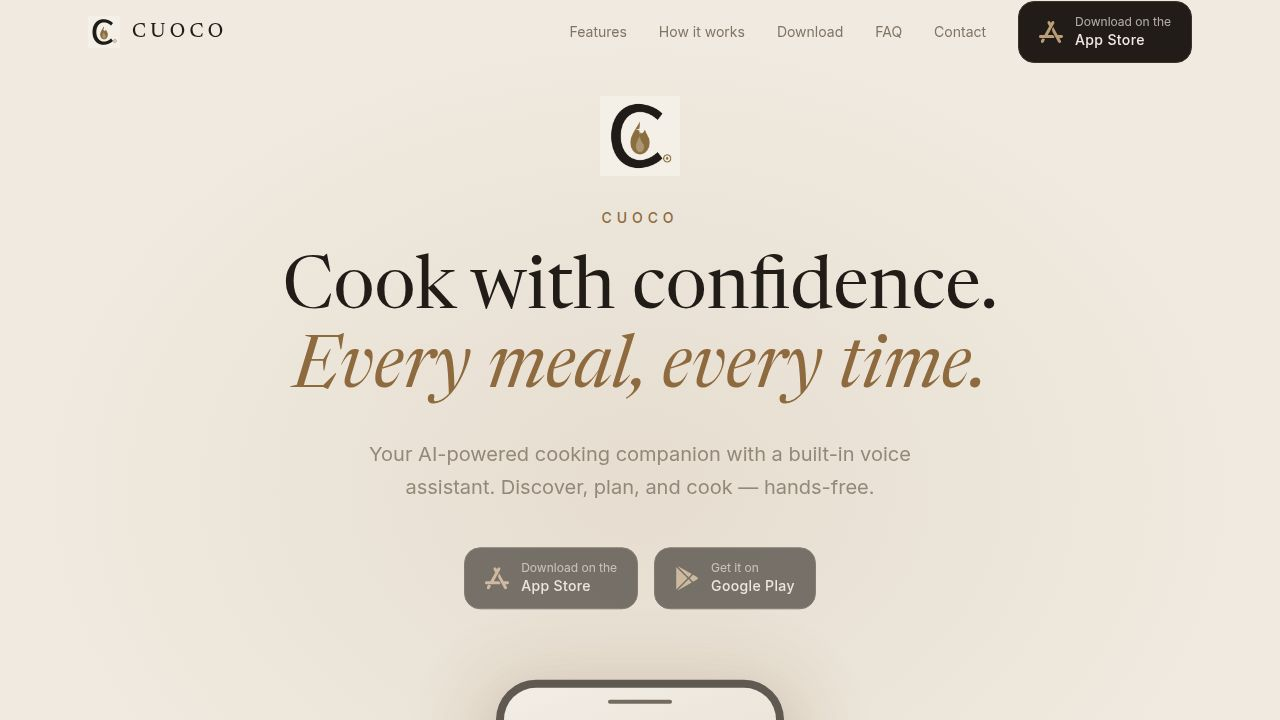
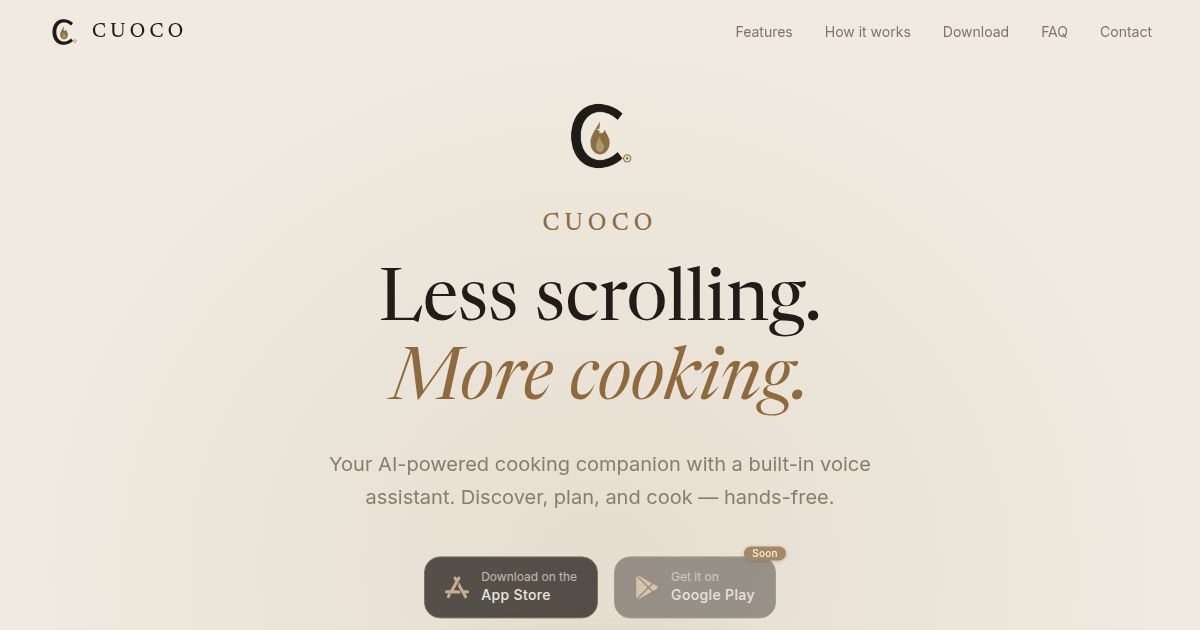
Update landing page assets and metadata
Replit-Commit-Author: Agent

diff --git a/artifacts/cuoco-landing/index.html b/artifacts/cuoco-landing/index.html
@@ -10,18 +10,18 @@
 
     <!-- Open Graph -->
     <meta property="og:title" content="Cuoco — Your AI Cooking Companion" />
-    <meta property="og:description" content="Cook with confidence. Every meal, every time. Cuoco is your AI-powered cooking companion with voice assistant, recipe import, meal planning, and more." />
+    <meta property="og:description" content="Less scrolling. More cooking. Cuoco is your AI-powered cooking companion with a built-in voice assistant, recipe import, meal planning, and more." />
     <meta property="og:url" content="https://get-cuoco.app/" />
     <meta property="og:type" content="website" />
     <meta property="og:site_name" content="Cuoco" />
     <meta property="og:image" content="https://get-cuoco.app/opengraph.jpg" />
-    <meta property="og:image:width" content="1024" />
-    <meta property="og:image:height" content="640" />
+    <meta property="og:image:width" content="1200" />
+    <meta property="og:image:height" content="630" />
 
     <!-- Twitter Card -->
     <meta name="twitter:card" content="summary_large_image" />
     <meta name="twitter:title" content="Cuoco — Your AI Cooking Companion" />
-    <meta name="twitter:description" content="Cook with confidence. Every meal, every time. AI recipes, voice assistant, meal planning — all in one app." />
+    <meta name="twitter:description" content="Less scrolling. More cooking. AI-powered recipes, voice assistant, meal planning — all in one app." />
     <meta name="twitter:image" content="https://get-cuoco.app/opengraph.jpg" />
 
     <!-- Structured data: MobileApplication -->
